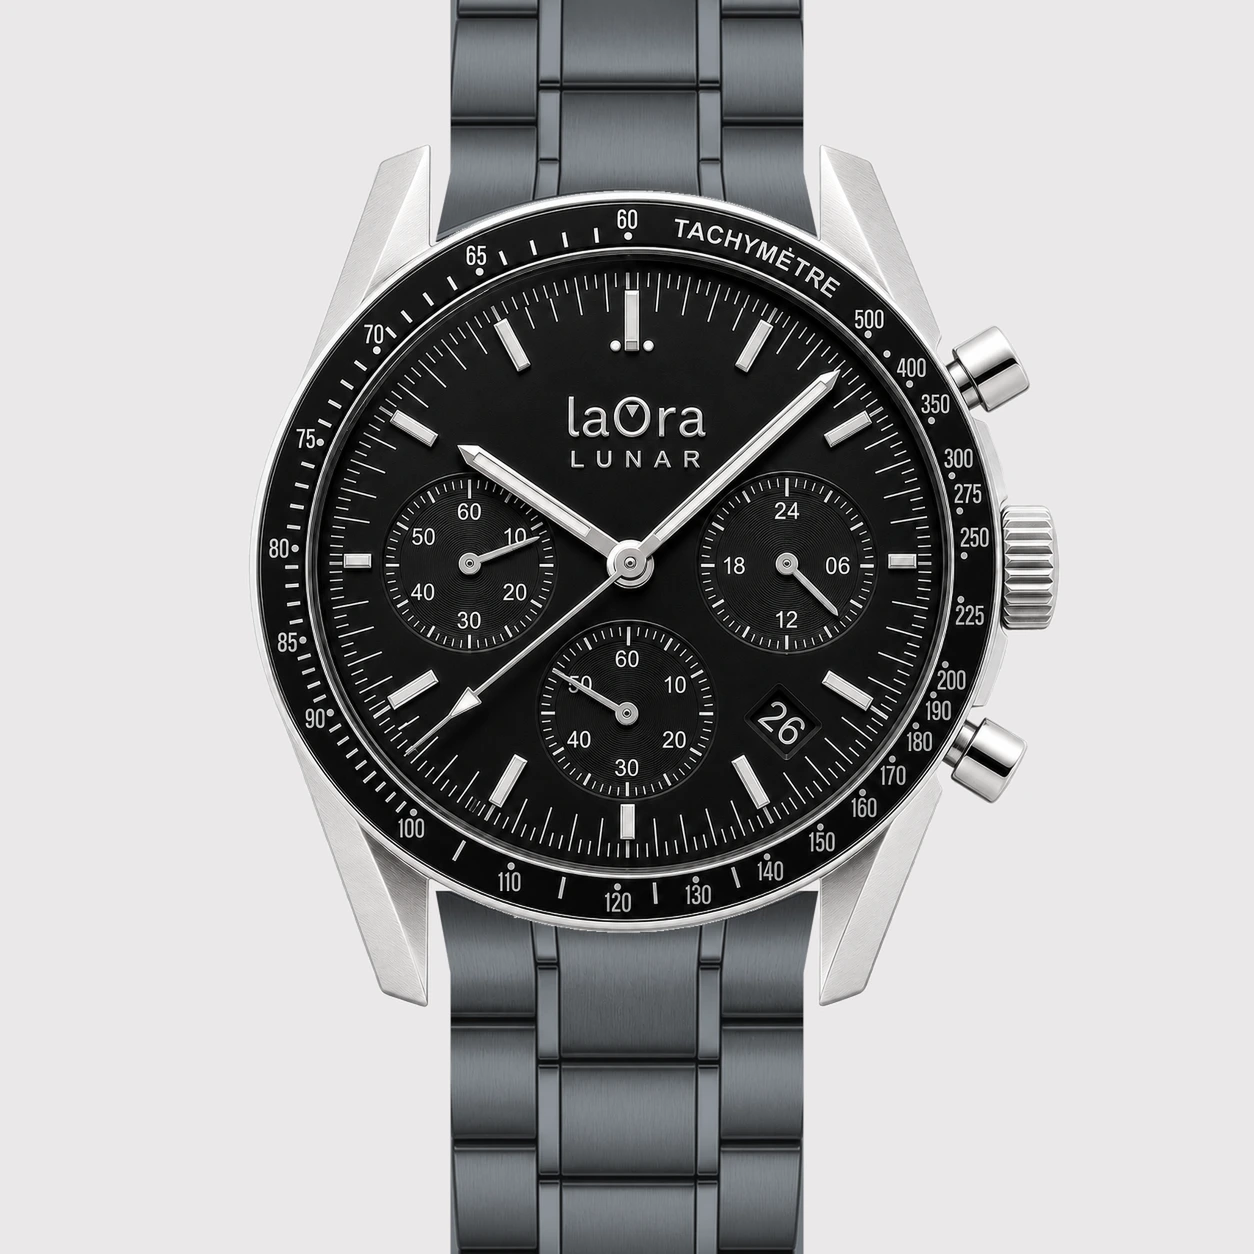
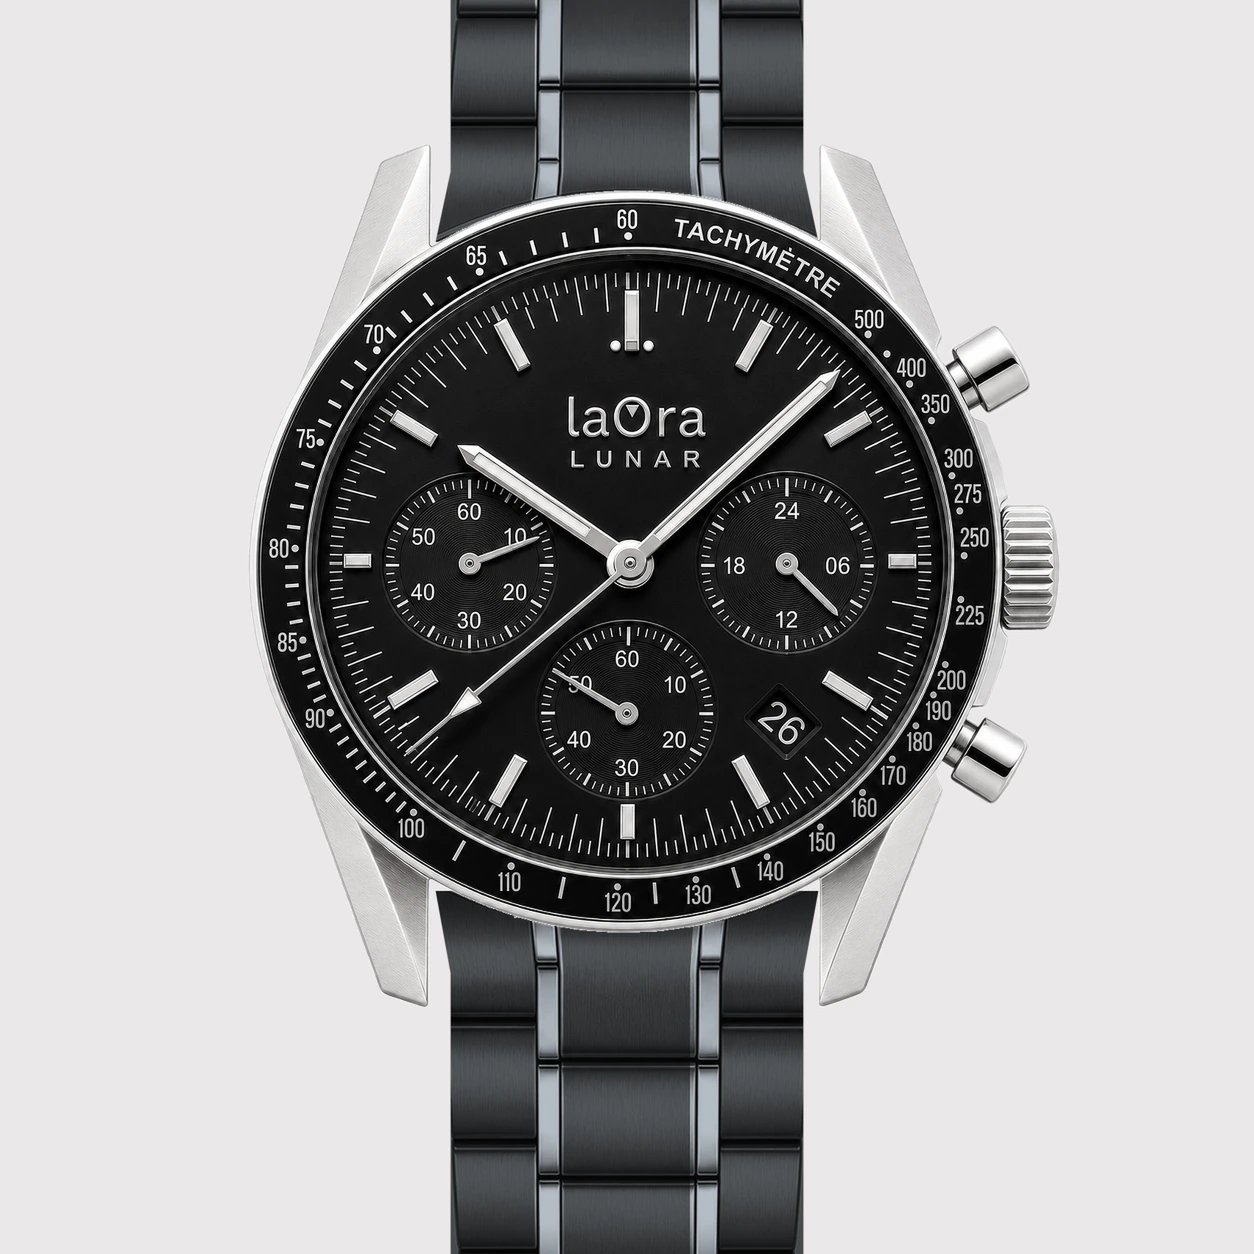
Lunar: madre nueva del brazalete negro PVD
Óscar la regeneró a las 17:17: las columnas centrales quedan mucho más
contrastadas, con el negro pulido alternando con el gris cepillado, como
en el de acero. Vuelto a comprobar que encaja con las dos cabezas, la de
acero y la negra, sin que asome nada.

Changed region(s): [[0.3421, 0.7153, 0.6531, 1.0], [0.3421, 0.0, 0.6531, 0.1866]]

diff --git a/lunar.html b/lunar.html
@@ -634,7 +634,7 @@
   });
 
   /* El manifiesto manda: de él salen las rutas de todas las capas. */
-  fetch('/assets/img/lunar-config/manifest.json?v=17')
+  fetch('/assets/img/lunar-config/manifest.json?v=18')
     .then(function (r) { return r.json(); })
     .then(function (m) { M = m; normaliza(); pinta(); });
 })();
